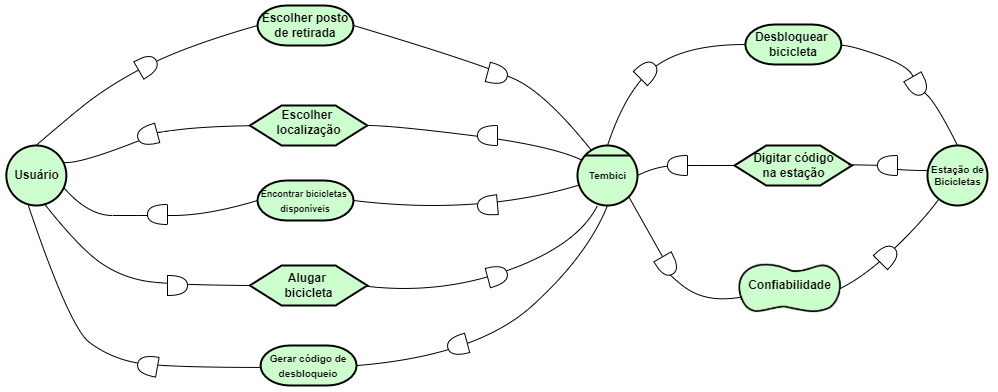
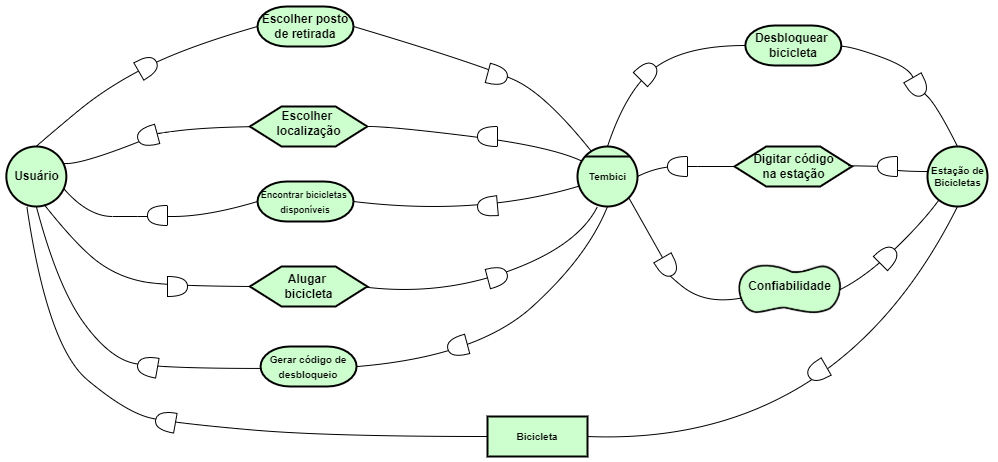
#37 istar Devolver  bicicleta

diff --git a/docs/modelagem/istar.md b/docs/modelagem/istar.md
@@ -19,7 +19,7 @@
 
 #### Modelo Depêndencia
 
-![Cadasttro - Modelo Depêndencia](../assets/modelagem/istar/DiagramaCadastro1.png)
+![Cadastro - Modelo Depêndencia](../assets/modelagem/istar/DiagramaCadastro1.png)
 *Imagem 1: Cadasttro - Modelo Depêndencia*
 
 #### Modelo Rationale
@@ -31,16 +31,29 @@
 
 #### Modelo Depêndencia
 
-![Cadasttro - Modelo Depêndencia](../assets/modelagem/istar/DragramaAlugarPlano1.png)
+![Alugar bicicleta - Modelo Depêndencia](../assets/modelagem/istar/DragramaAlugarPlano1.png)
 *Imagem 3: Alugar bicicleta - Modelo Depêndencia*
 
 #### Modelo Rationale
 
-![Cadastro - Modelo Rationale](../assets/modelagem/istar/DragramaAlugarPlano2.png)
+![Alugar bicicleta - Modelo Rationale](../assets/modelagem/istar/DragramaAlugarPlano2.png)
 
 *Imagem 4: Alugar bicicleta - Modelo Rationale*
 
-### Cadastro
+### Devolver bicicleta
+
+#### Modelo Depêndencia
+
+![Devolver bicicleta - Modelo Depêndencia](../assets/modelagem/istar/DiagramaDevolver1.png)
+*Imagem 5: Devolver bicicleta - Modelo Depêndencia*
+
+#### Modelo Rationale
+
+![Devolver bicicleta - Modelo Rationale](../assets/modelagem/istar/DiagramaDevolver2.png)
+
+*Imagem 6: Devolver bicicleta - Modelo Rationale*
+
+
 
 ## Referências 
-- SILVA, Reinaldo Antônio da. NFR4ES: Um Catálogo de Requisitos Não-Funcionais para Sistemas Embarcados. Universidade Federal de Pernambuco, Recife, 2019. 2.4 - NFR Framework.
+- SILVA, Reinaldo Antônio da. NFR4ES: Um Catálogo de Requisitos Não-Funcionais para Sistemas Embarcados. Universidade Federal de Pernambuco, Recife, 2019. 2.4 - NFR Framework. Acesso em 

diff --git a/docs/modelagem/nfrframework.md b/docs/modelagem/nfrframework.md
@@ -68,4 +68,4 @@ Os rótulos utilizados foram:
 *Imagem 8: NFR Suportabilidade Propagação* 
 
 ## Referências 
-- SILVA, Reinaldo Antônio da. NFR4ES: Um Catálogo de Requisitos Não-Funcionais para Sistemas Embarcados. Universidade Federal de Pernambuco, Recife, 2019. 2.4 - NFR Framework.
+- SILVA, Reinaldo Antônio da. NFR4ES: Um Catálogo de Requisitos Não-Funcionais para Sistemas Embarcados. Universidade Federal de Pernambuco, Recife, 2019. 2.4 - NFR Framework. Acesso em 01 de Março de 2022.
